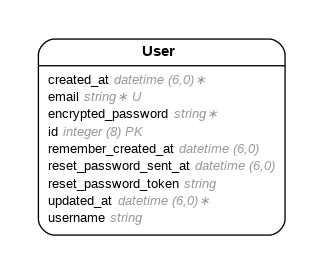
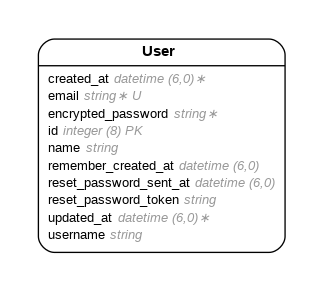
fixed searching tool now title search also include other filters

Changed region(s): [[0.0929, 0.1168, 0.8978, 0.8759], [0.8669, 0.7883, 0.8978, 0.8467], [0.0929, 0.1752, 0.1238, 0.2044]]

diff --git a/app/assets/stylesheets/application.css b/app/assets/stylesheets/application.css
@@ -42,12 +42,10 @@
   padding: 0.75rem 2rem; 
 }
 
-/* LEFT: just the logo/title */
 .nav-left {
   flex: 0 0 auto;
 }
 
-/* CENTER: stretches and centers the links */
 .nav-center {
   flex: 1 1 auto;
   display: flex;
@@ -59,7 +57,6 @@
   gap: 2rem;
 }
 
-/* RIGHT: sticks to the far right */
 .nav-right {
   flex: 0 0 auto;
   margin-left: auto;

diff --git a/app/controllers/movies_controller.rb b/app/controllers/movies_controller.rb
@@ -8,6 +8,8 @@ class MoviesController < ApplicationController
     "prime" => 9,
     "disney" => 337,
     "hulu" => 15,
+    "apple_tv" => 2,
+    "hbo_max" => 1899
   }.freeze
 
   def index
@@ -85,14 +87,39 @@ class MoviesController < ApplicationController
         provider_id = PROVIDER_IDS[provider]
         if provider_id
           discover_query[:with_watch_providers] = provider_id
+          discover_query[:watch_region]         = "US"
         end
       end
+
 
       response = HTTParty.get("#{base_url}/discover/movie", query: discover_query)
     end
 
     @movies = response["results"] || []
   end
+
+    # 🔍 Extra AND-filtering when a title is present
+    if query.present?
+      @movies.select! do |m|
+        ok = true
+
+        # filter by rating if provided
+        if min_rating.present?
+          ok &&= m["vote_average"].to_f >= min_rating.to_f
+        end
+
+        # filter by genre if provided (search results include genre_ids)
+        if genre_id.present?
+          ok &&= (m["genre_ids"] || []).include?(genre_id.to_i)
+        end
+
+        # NOTE: runtime & provider filters are *not* applied here,
+        # because /search/movie results don't include runtime or providers.
+        # (We'd need extra API calls per movie to do that.)
+
+        ok
+      end
+    end
 
     sort = params[:sort].presence || "rating"  # default: rating desc
 
@@ -112,6 +139,7 @@ class MoviesController < ApplicationController
     api_key = ENV["TMDB_API_KEY"]
     movie_id = params[:id]
     base_url = "https://api.themoviedb.org/3"
+    region   = "US"  # to update to region toggle
 
     # Main movie details
     detail_response = HTTParty.get(
@@ -152,11 +180,11 @@ class MoviesController < ApplicationController
       query: { api_key: api_key },
     )
 
-    us_providers = providers_response.parsed_response.dig("results", region) || {}
+    region_data = providers_response.parsed_response.dig("results", region) || {}
     @streaming = {
-      flatrate: us_providers["flatrate"] || [],
-      rent: us_providers["rent"] || [],
-      buy: us_providers["buy"] || [],
+      flatrate: region_data["flatrate"] || [],
+      rent: region_data["rent"] || [],
+      buy: region_data["buy"] || [],
     }
 
     render({ :template => "movies_templates/show" })

diff --git a/db/schema.rb b/db/schema.rb
@@ -10,7 +10,7 @@
 #
 # It's strongly recommended that you check this file into your version control system.
 
-ActiveRecord::Schema[8.0].define(version: 2025_12_05_004631) do
+ActiveRecord::Schema[8.0].define(version: 2025_12_05_014921) do
   # These are extensions that must be enabled in order to support this database
   enable_extension "pg_catalog.plpgsql"
 
@@ -165,6 +165,7 @@ ActiveRecord::Schema[8.0].define(version: 2025_12_05_004631) do
     t.string "username"
     t.datetime "created_at", null: false
     t.datetime "updated_at", null: false
+    t.string "name"
     t.index ["email"], name: "index_users_on_email", unique: true
     t.index ["reset_password_token"], name: "index_users_on_reset_password_token", unique: true
   end

diff --git a/app/controllers/application_controller.rb b/app/controllers/application_controller.rb
@@ -1,3 +1,14 @@
 class ApplicationController < ActionController::Base
   skip_forgery_protection
+    before_action :configure_permitted_parameters, if: :devise_controller?
+
+  protected
+
+  def configure_permitted_parameters
+    # sign up
+    devise_parameter_sanitizer.permit(:sign_up, keys: [:name])
+
+    # account edit
+    devise_parameter_sanitizer.permit(:account_update, keys: [:name])
+  end
 end

diff --git a/app/models/user.rb b/app/models/user.rb
@@ -5,6 +5,7 @@
 #  id                     :bigint           not null, primary key
 #  email                  :string           default(""), not null
 #  encrypted_password     :string           default(""), not null
+#  name                   :string
 #  remember_created_at    :datetime
 #  reset_password_sent_at :datetime
 #  reset_password_token   :string

diff --git a/db/migrate/20251205014921_add_name_to_users.rb b/db/migrate/20251205014921_add_name_to_users.rb
@@ -1,0 +1,5 @@
+class AddNameToUsers < ActiveRecord::Migration[8.0]
+  def change
+    add_column :users, :name, :string
+  end
+end
